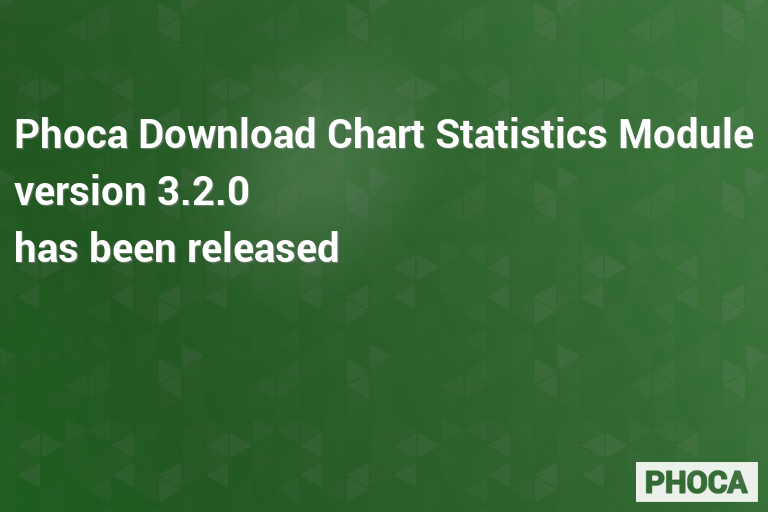
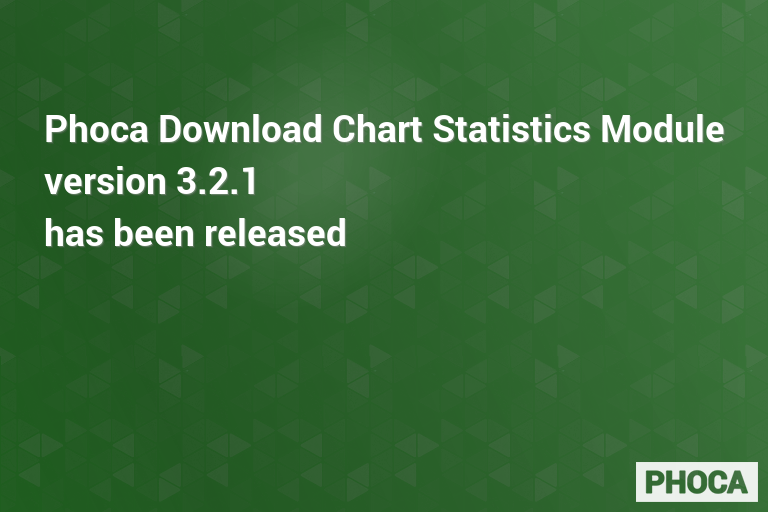
3.2.1
3.2.1

Changed region(s): [[0.0, 0.2188, 1.0, 0.4062], [0.0, 0.4062, 0.4688, 0.5312]]

diff --git a/models/fields/phocadownloadcategorymodule.php b/models/fields/phocadownloadcategorymodule.php
@@ -18,7 +18,7 @@ class JFormFieldPhocaDownloadCategoryModule extends JFormField
 	protected $type 		= 'PhocaDownloadCategoryModule';
 
 	protected function getInput() {
-	
+
 		// Initialize variables.
 		$attr = '';
 
@@ -30,7 +30,7 @@ class JFormFieldPhocaDownloadCategoryModule extends JFormField
 
 		// Initialize JavaScript field attributes.
 		$attr .= $this->element['onchange'] ? ' onchange="'.(string) $this->element['onchange'].'"' : '';
-		
+
 		$db = JFactory::getDBO();
 
        //build the list of categories
@@ -40,11 +40,11 @@ class JFormFieldPhocaDownloadCategoryModule extends JFormField
 		. ' ORDER BY a.ordering';
 		$db->setQuery( $query );
 		$data = $db->loadObjectList();
-	
+
 		// TODO - check for other views than category edit
 		$app = JFactory::getApplication();
 		$view = $app->input->getCMD('view', '');
-		
+
 		$catId	= -1;
 		if ($view == 'phocadownloadcat') {
 			$id 	= $this->form->getValue('id'); // id of current category
@@ -58,22 +58,22 @@ class JFormFieldPhocaDownloadCategoryModule extends JFormField
 				$catId = $id;
 			}
 		}*/
-		
-		
-		
+
+
+
 		$required	= ((string) $this->element['required'] == 'true') ? TRUE : FALSE;
-		
+
 		$tree = array();
 		$text = '';
 		$tree = PhocaDownloadCategory::CategoryTreeOption($data, $tree, 0, $text, $catId);
-		
+
 		//if ($required == TRUE) {
-		
+
 		//} else {
-		
-			//array_unshift($tree, JHTML::_('select.option', '', '- '.JText::_('COM_PHOCADOWNLOAD_SELECT_CATEGORY').' -', 'value', 'text'));
+
+			//array_unshift($tree, Joomla\CMS\HTML\HTMLHelper::_('select.option', '', '- '.JText::_('COM_PHOCADOWNLOAD_SELECT_CATEGORY').' -', 'value', 'text'));
 		//}
-		return JHTML::_('select.genericlist',  $tree,  $this->name, $attr, 'value', 'text', $this->value, $this->id );
+		return Joomla\CMS\HTML\HTMLHelper::_('select.genericlist',  $tree,  $this->name, $attr, 'value', 'text', $this->value, $this->id );
 	}
 }
 ?>

diff --git a/README.MD b/README.MD
@@ -54,7 +54,7 @@ Phoca Download Chart Statistics Module is a Joomla! module which displays chart 
 
 ## Version
 
-3.2.0
+3.2.1
 
 
 
